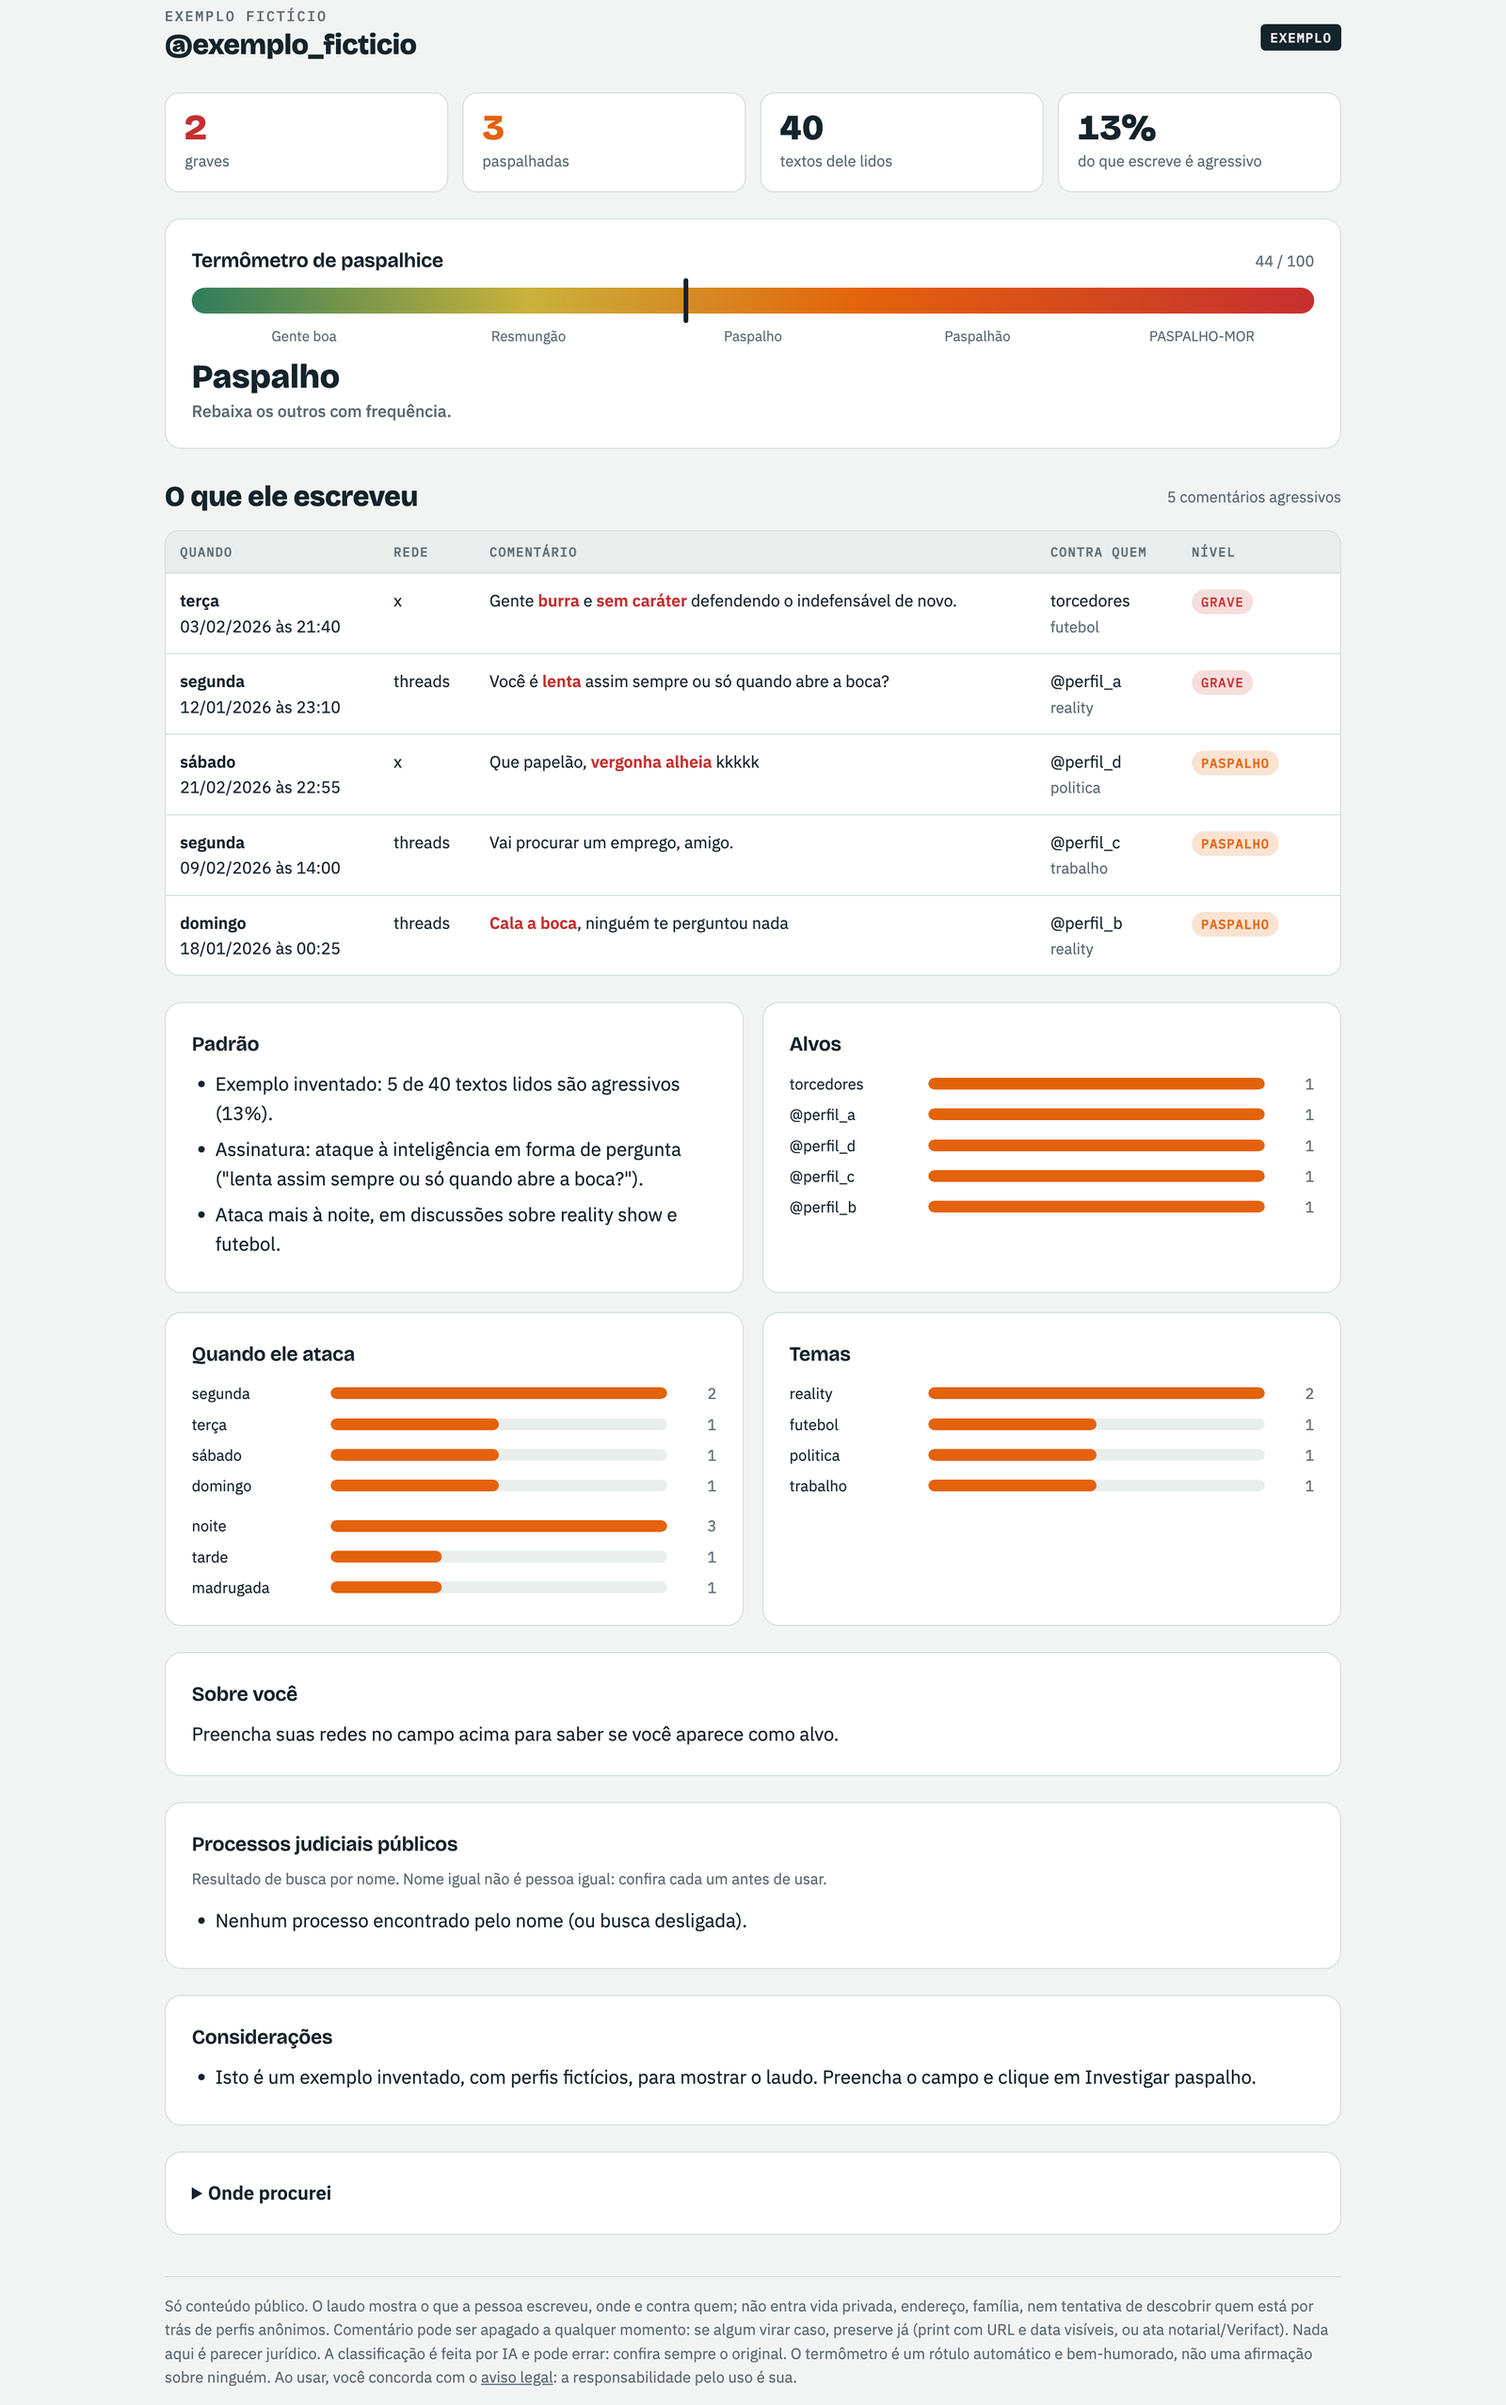
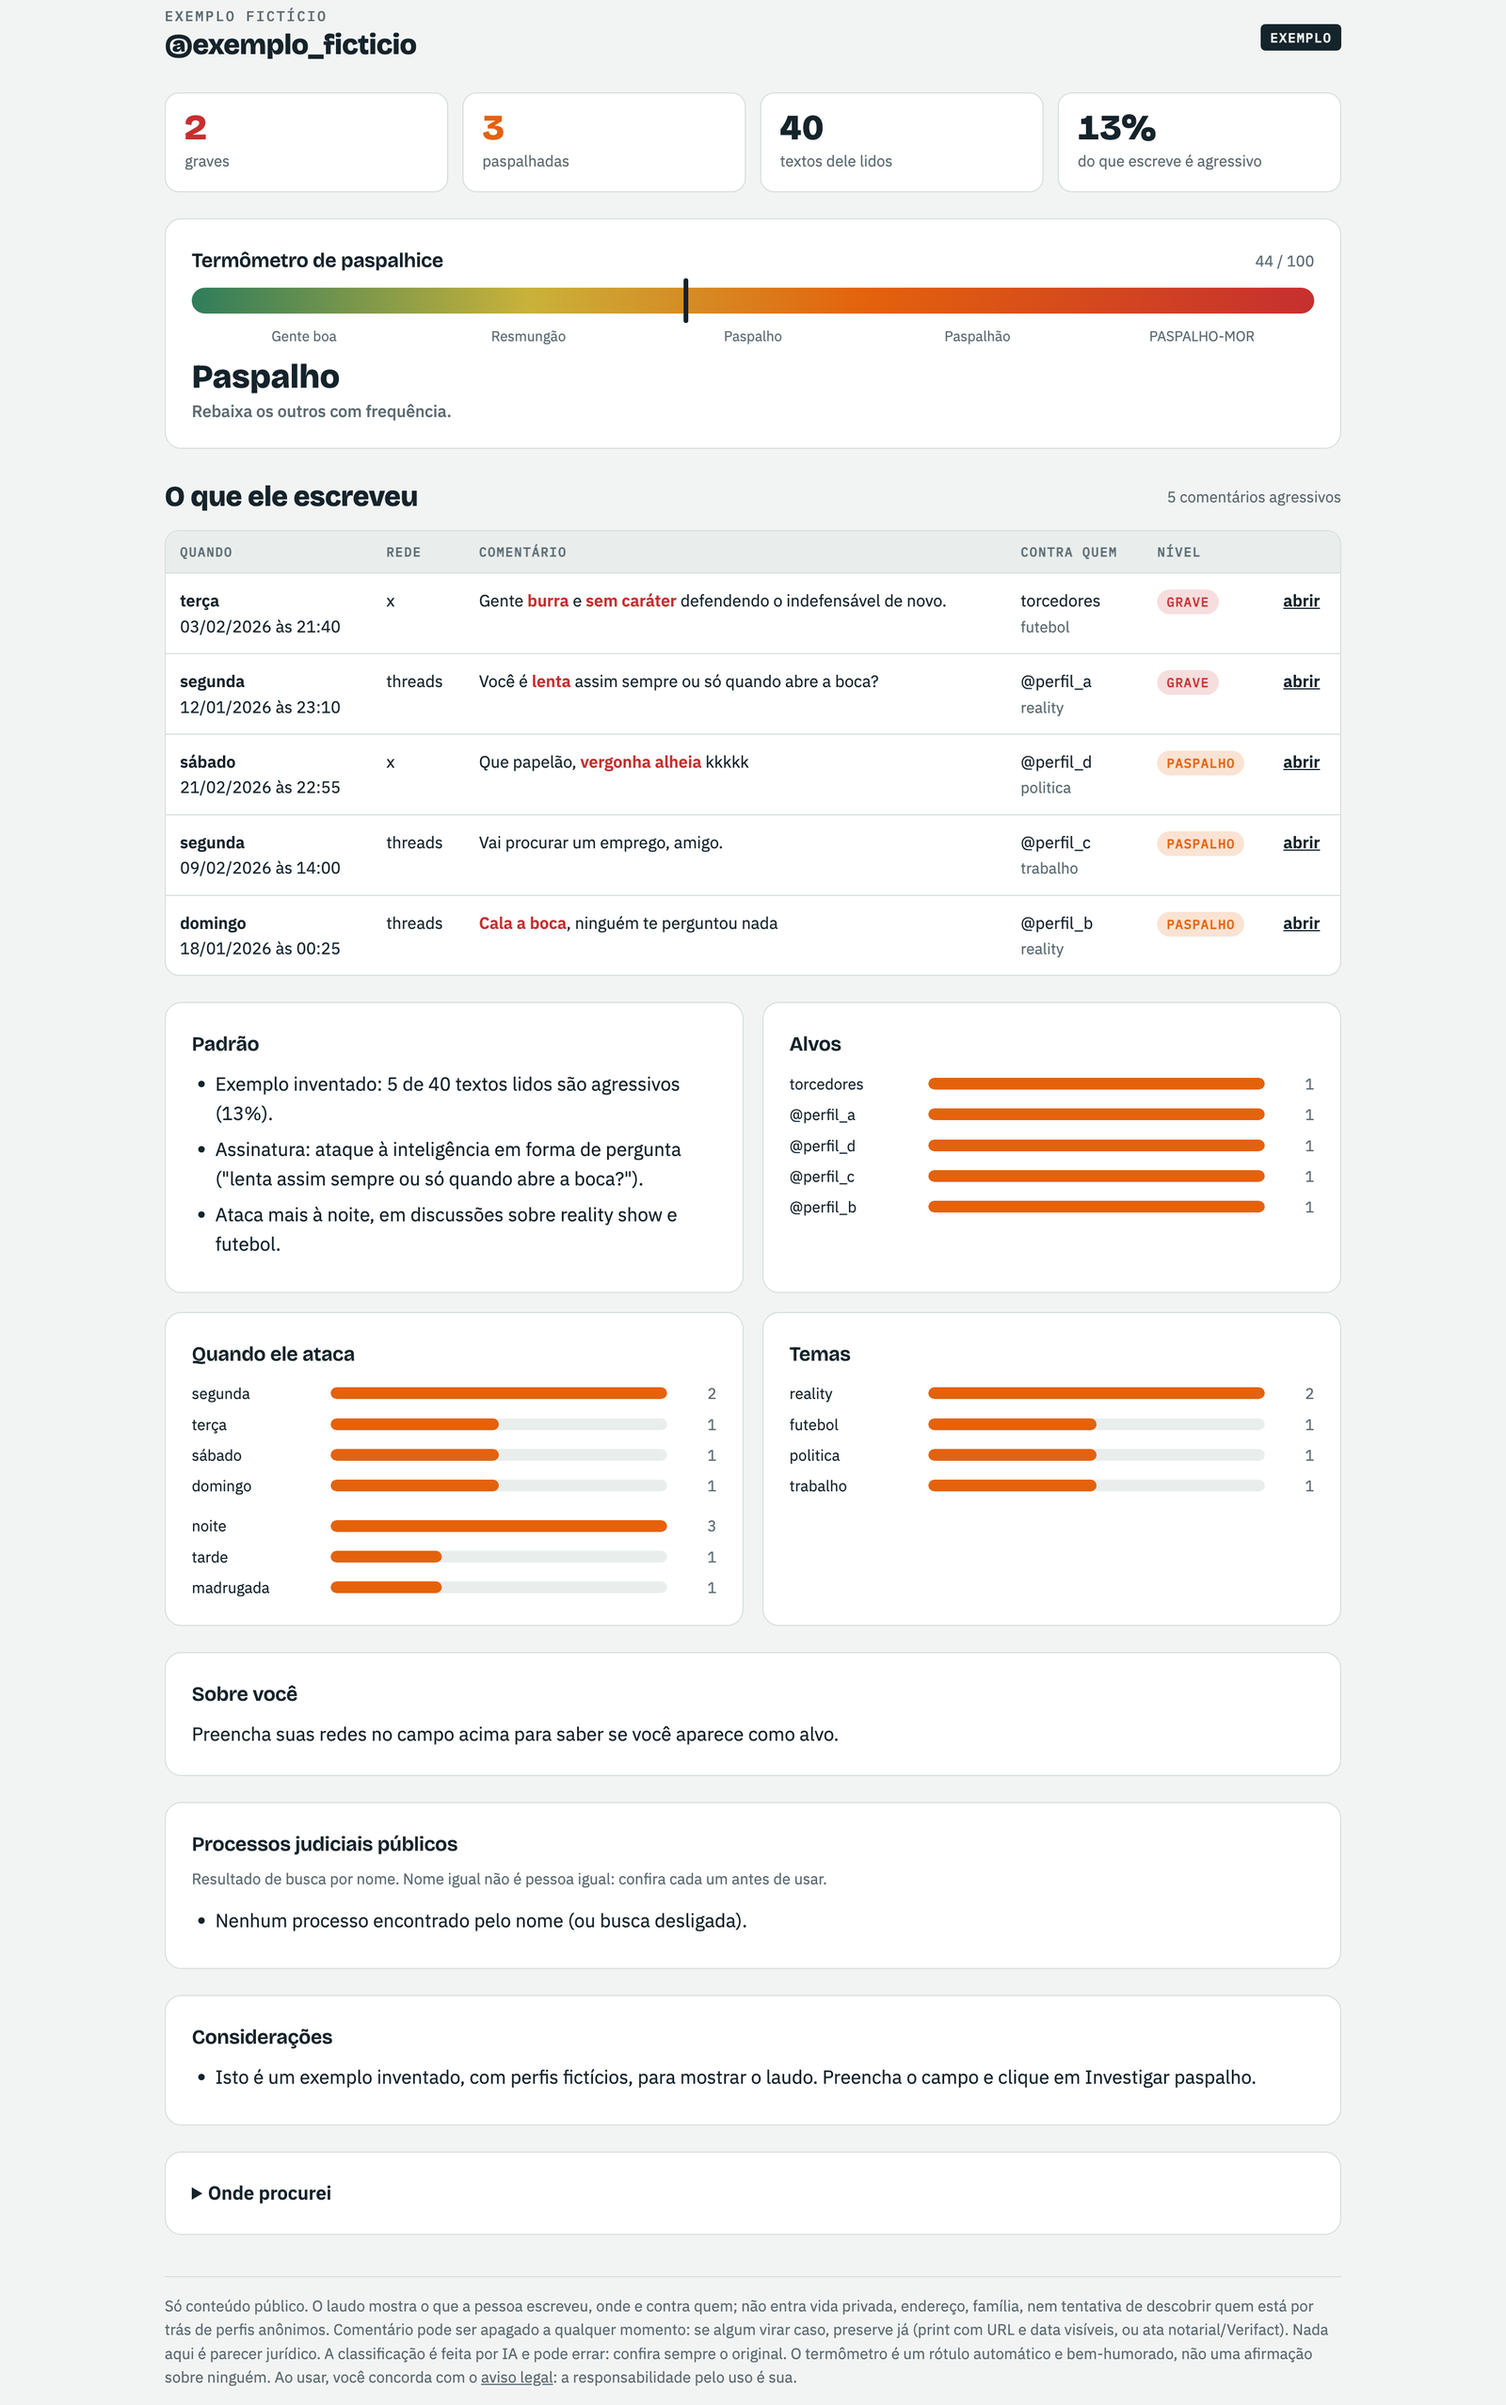
Exemplo com links em example.com: a coluna abrir aparece no print do README

Changed region(s): [[0.6875, 0.2164, 0.875, 0.402], [0.3438, 0.2474, 0.5, 0.402], [0.5312, 0.2474, 0.5938, 0.2783]]

diff --git a/pagina/index.html b/pagina/index.html
@@ -426,15 +426,16 @@ function aplicarJSON(d, fname){
   }
 }
 
-/* ====== exemplo inventado (estado inicial): nunca usar texto de caso real aqui ====== */
+/* ====== exemplo inventado (estado inicial): nunca usar texto de caso real aqui.
+   Links do exemplo só em example.com (domínio reservado pra exemplo): nunca link de rede de verdade ====== */
 function exemplo(){
   S.lidos = 40;
   S.rows = [
-    {texto: "Você é lenta assim sempre ou só quando abre a boca?", rede: "threads", quando_iso: "2026-01-12T23:10", nivel: "grave", alvo: "@perfil_a", tema: "reality", xingamentos: ["lenta"]},
-    {texto: "Cala a boca, ninguém te perguntou nada", rede: "threads", quando_iso: "2026-01-18T00:25", nivel: "paspalho", alvo: "@perfil_b", tema: "reality", xingamentos: ["cala a boca"]},
-    {texto: "Gente burra e sem caráter defendendo o indefensável de novo.", rede: "x", quando_iso: "2026-02-03T21:40", nivel: "grave", alvo: "torcedores", tema: "futebol", xingamentos: ["burra","sem caráter"]},
-    {texto: "Vai procurar um emprego, amigo.", rede: "threads", quando_iso: "2026-02-09T14:00", nivel: "paspalho", alvo: "@perfil_c", tema: "trabalho", xingamentos: []},
-    {texto: "Que papelão, vergonha alheia kkkkk", rede: "x", quando_iso: "2026-02-21T22:55", nivel: "paspalho", alvo: "@perfil_d", tema: "politica", xingamentos: ["vergonha alheia"]},
+    {url: "https://example.com/paspalho/exemplo-1", texto: "Você é lenta assim sempre ou só quando abre a boca?", rede: "threads", quando_iso: "2026-01-12T23:10", nivel: "grave", alvo: "@perfil_a", tema: "reality", xingamentos: ["lenta"]},
+    {url: "https://example.com/paspalho/exemplo-2", texto: "Cala a boca, ninguém te perguntou nada", rede: "threads", quando_iso: "2026-01-18T00:25", nivel: "paspalho", alvo: "@perfil_b", tema: "reality", xingamentos: ["cala a boca"]},
+    {url: "https://example.com/paspalho/exemplo-3", texto: "Gente burra e sem caráter defendendo o indefensável de novo.", rede: "x", quando_iso: "2026-02-03T21:40", nivel: "grave", alvo: "torcedores", tema: "futebol", xingamentos: ["burra","sem caráter"]},
+    {url: "https://example.com/paspalho/exemplo-4", texto: "Vai procurar um emprego, amigo.", rede: "threads", quando_iso: "2026-02-09T14:00", nivel: "paspalho", alvo: "@perfil_c", tema: "trabalho", xingamentos: []},
+    {url: "https://example.com/paspalho/exemplo-5", texto: "Que papelão, vergonha alheia kkkkk", rede: "x", quando_iso: "2026-02-21T22:55", nivel: "paspalho", alvo: "@perfil_d", tema: "politica", xingamentos: ["vergonha alheia"]},
   ];
   S.fontes = [{fonte: "Threads (exemplo)", itens: 30, status: "ok"}, {fonte: "X (exemplo)", itens: 10, status: "ok"}];
   S.procs = [];
